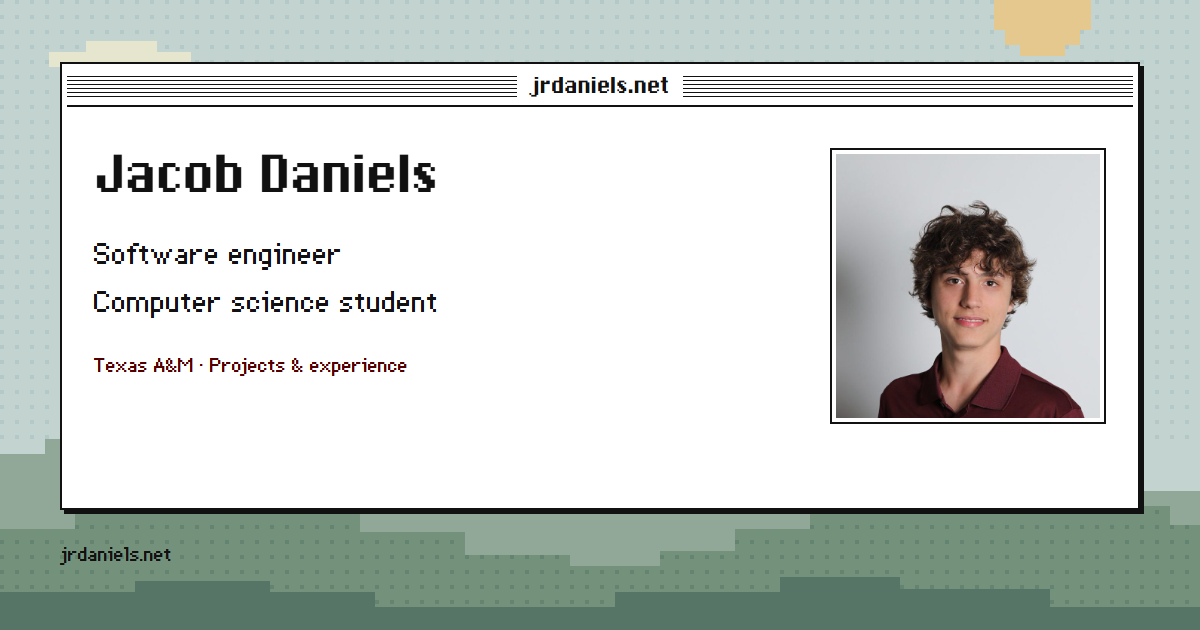
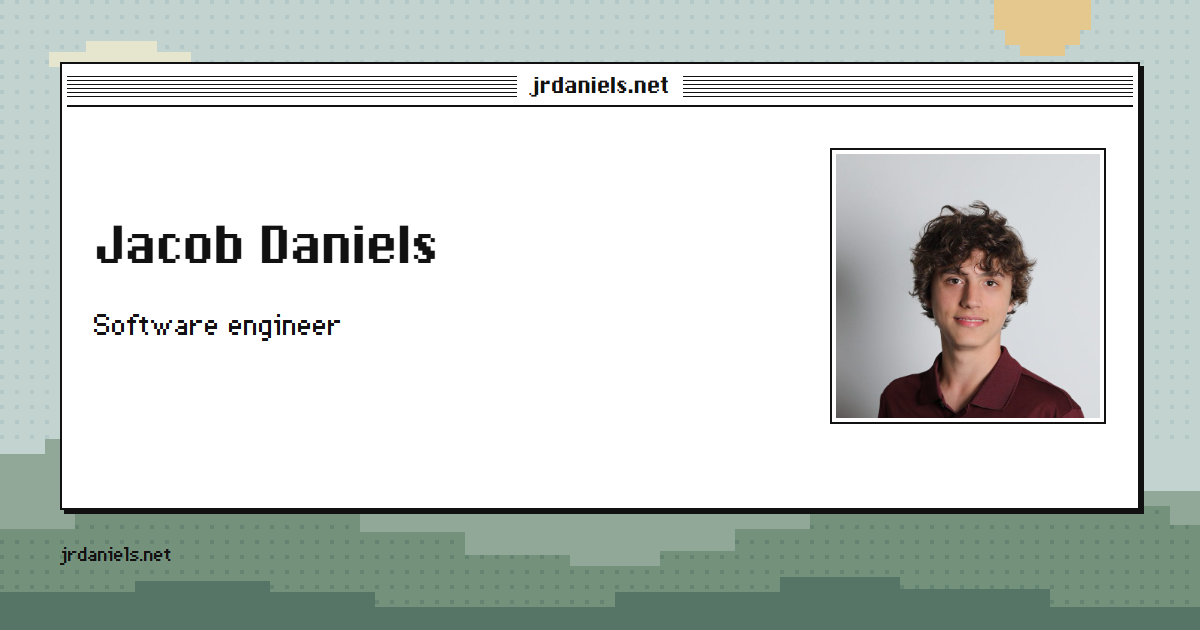
Simplify social preview image to name and software engineer

diff --git a/index.html b/index.html
@@ -14,16 +14,16 @@
     <meta property="og:title" content="Jacob Daniels | Software Engineer and Computer Science Student" />
     <meta property="og:description" content="Jacob Daniels. Computer science and math student at Texas A&amp;M. A personal website with projects, background, and contact details." />
     <meta property="og:url" content="https://jrdaniels.net/" />
-    <meta property="og:image" content="https://jrdaniels.net/assets/social-preview.png" />
+    <meta property="og:image" content="https://jrdaniels.net/assets/social-preview.png?v=2" />
     <meta property="og:image:type" content="image/png" />
     <meta property="og:image:width" content="1200" />
     <meta property="og:image:height" content="630" />
-    <meta property="og:image:alt" content="Jacob Daniels, software engineer and computer science student, with a portrait in a classic Macintosh window over pixel-art hills." />
+    <meta property="og:image:alt" content="Jacob Daniels, software engineer, with a portrait in a classic Macintosh window over pixel-art hills." />
     <meta name="twitter:card" content="summary_large_image" />
     <meta name="twitter:title" content="Jacob Daniels | Software Engineer and Computer Science Student" />
     <meta name="twitter:description" content="Jacob Daniels. Computer science and math student at Texas A&amp;M. A personal website with projects, background, and contact details." />
-    <meta name="twitter:image" content="https://jrdaniels.net/assets/social-preview.png" />
-    <meta name="twitter:image:alt" content="Jacob Daniels, software engineer and computer science student, with a portrait in a classic Macintosh window over pixel-art hills." />
+    <meta name="twitter:image" content="https://jrdaniels.net/assets/social-preview.png?v=2" />
+    <meta name="twitter:image:alt" content="Jacob Daniels, software engineer, with a portrait in a classic Macintosh window over pixel-art hills." />
     <meta name="theme-color" content="#d0d0d0" />
     <link rel="canonical" href="https://jrdaniels.net/" />
     <title>Jacob Daniels | Software Engineer and Computer Science Student</title>

diff --git a/projects.html b/projects.html
@@ -14,16 +14,16 @@
     <meta property="og:title" content="Projects - Jacob Daniels" />
     <meta property="og:description" content="Projects - Jacob Daniels, computer science student at Texas A&amp;M." />
     <meta property="og:url" content="https://jrdaniels.net/projects.html" />
-    <meta property="og:image" content="https://jrdaniels.net/assets/social-preview.png" />
+    <meta property="og:image" content="https://jrdaniels.net/assets/social-preview.png?v=2" />
     <meta property="og:image:type" content="image/png" />
     <meta property="og:image:width" content="1200" />
     <meta property="og:image:height" content="630" />
-    <meta property="og:image:alt" content="Jacob Daniels, software engineer and computer science student, with a portrait in a classic Macintosh window over pixel-art hills." />
+    <meta property="og:image:alt" content="Jacob Daniels, software engineer, with a portrait in a classic Macintosh window over pixel-art hills." />
     <meta name="twitter:card" content="summary_large_image" />
     <meta name="twitter:title" content="Projects - Jacob Daniels" />
     <meta name="twitter:description" content="Projects - Jacob Daniels, computer science student at Texas A&amp;M." />
-    <meta name="twitter:image" content="https://jrdaniels.net/assets/social-preview.png" />
-    <meta name="twitter:image:alt" content="Jacob Daniels, software engineer and computer science student, with a portrait in a classic Macintosh window over pixel-art hills." />
+    <meta name="twitter:image" content="https://jrdaniels.net/assets/social-preview.png?v=2" />
+    <meta name="twitter:image:alt" content="Jacob Daniels, software engineer, with a portrait in a classic Macintosh window over pixel-art hills." />
     <meta name="theme-color" content="#d0d0d0" />
     <link rel="canonical" href="https://jrdaniels.net/projects.html" />
     <title>Projects - Jacob Daniels</title>

diff --git a/contact.html b/contact.html
@@ -14,16 +14,16 @@
     <meta property="og:title" content="Contact - Jacob Daniels" />
     <meta property="og:description" content="Contact - Jacob Daniels, computer science student at Texas A&amp;M." />
     <meta property="og:url" content="https://jrdaniels.net/contact.html" />
-    <meta property="og:image" content="https://jrdaniels.net/assets/social-preview.png" />
+    <meta property="og:image" content="https://jrdaniels.net/assets/social-preview.png?v=2" />
     <meta property="og:image:type" content="image/png" />
     <meta property="og:image:width" content="1200" />
     <meta property="og:image:height" content="630" />
-    <meta property="og:image:alt" content="Jacob Daniels, software engineer and computer science student, with a portrait in a classic Macintosh window over pixel-art hills." />
+    <meta property="og:image:alt" content="Jacob Daniels, software engineer, with a portrait in a classic Macintosh window over pixel-art hills." />
     <meta name="twitter:card" content="summary_large_image" />
     <meta name="twitter:title" content="Contact - Jacob Daniels" />
     <meta name="twitter:description" content="Contact - Jacob Daniels, computer science student at Texas A&amp;M." />
-    <meta name="twitter:image" content="https://jrdaniels.net/assets/social-preview.png" />
-    <meta name="twitter:image:alt" content="Jacob Daniels, software engineer and computer science student, with a portrait in a classic Macintosh window over pixel-art hills." />
+    <meta name="twitter:image" content="https://jrdaniels.net/assets/social-preview.png?v=2" />
+    <meta name="twitter:image:alt" content="Jacob Daniels, software engineer, with a portrait in a classic Macintosh window over pixel-art hills." />
     <meta name="theme-color" content="#d0d0d0" />
     <link rel="canonical" href="https://jrdaniels.net/contact.html" />
     <title>Contact - Jacob Daniels</title>

diff --git a/about.html b/about.html
@@ -14,16 +14,16 @@
     <meta property="og:title" content="About - Jacob Daniels" />
     <meta property="og:description" content="About - Jacob Daniels, computer science student at Texas A&amp;M." />
     <meta property="og:url" content="https://jrdaniels.net/about.html" />
-    <meta property="og:image" content="https://jrdaniels.net/assets/social-preview.png" />
+    <meta property="og:image" content="https://jrdaniels.net/assets/social-preview.png?v=2" />
     <meta property="og:image:type" content="image/png" />
     <meta property="og:image:width" content="1200" />
     <meta property="og:image:height" content="630" />
-    <meta property="og:image:alt" content="Jacob Daniels, software engineer and computer science student, with a portrait in a classic Macintosh window over pixel-art hills." />
+    <meta property="og:image:alt" content="Jacob Daniels, software engineer, with a portrait in a classic Macintosh window over pixel-art hills." />
     <meta name="twitter:card" content="summary_large_image" />
     <meta name="twitter:title" content="About - Jacob Daniels" />
     <meta name="twitter:description" content="About - Jacob Daniels, computer science student at Texas A&amp;M." />
-    <meta name="twitter:image" content="https://jrdaniels.net/assets/social-preview.png" />
-    <meta name="twitter:image:alt" content="Jacob Daniels, software engineer and computer science student, with a portrait in a classic Macintosh window over pixel-art hills." />
+    <meta name="twitter:image" content="https://jrdaniels.net/assets/social-preview.png?v=2" />
+    <meta name="twitter:image:alt" content="Jacob Daniels, software engineer, with a portrait in a classic Macintosh window over pixel-art hills." />
     <meta name="theme-color" content="#d0d0d0" />
     <link rel="canonical" href="https://jrdaniels.net/about.html" />
     <title>About - Jacob Daniels</title>
